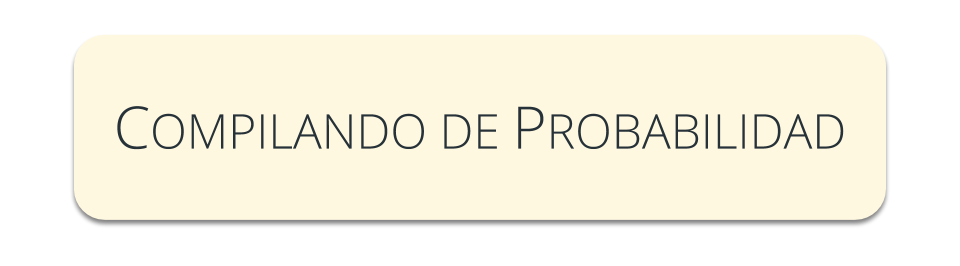
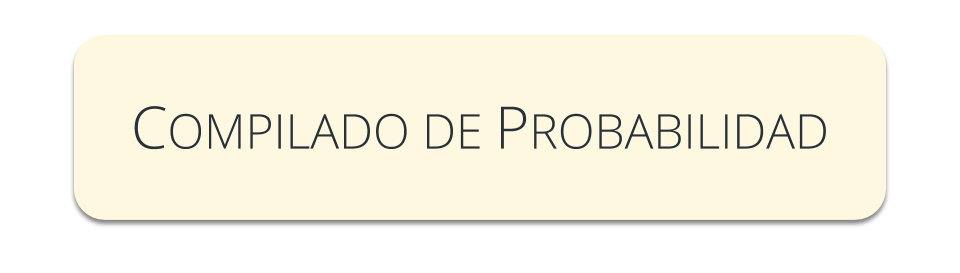
Little error

Changed region(s): [[0.125, 0.391, 0.9062, 0.5714], [0.0625, 0.7519, 0.9375, 0.8722]]

diff --git a/README.md b/README.md
@@ -41,7 +41,7 @@ acaba de empezar.
 **Compilar es Compartir**
 
 <br />
-[![DownloadButton](Graphics/BookShow.png)](https://compilandoconocimiento.github.io/LibroProbabilidad/LibroProbabilidadYEstadistica.pdf)
+[![DownloadButton](Graphics/BookShow.png)](https://CompilandoConocimiento.github.io/LibroProbabilidad/LibroProbabilidadYEstadistica.pdf)
 
 ## Contenidos
 
